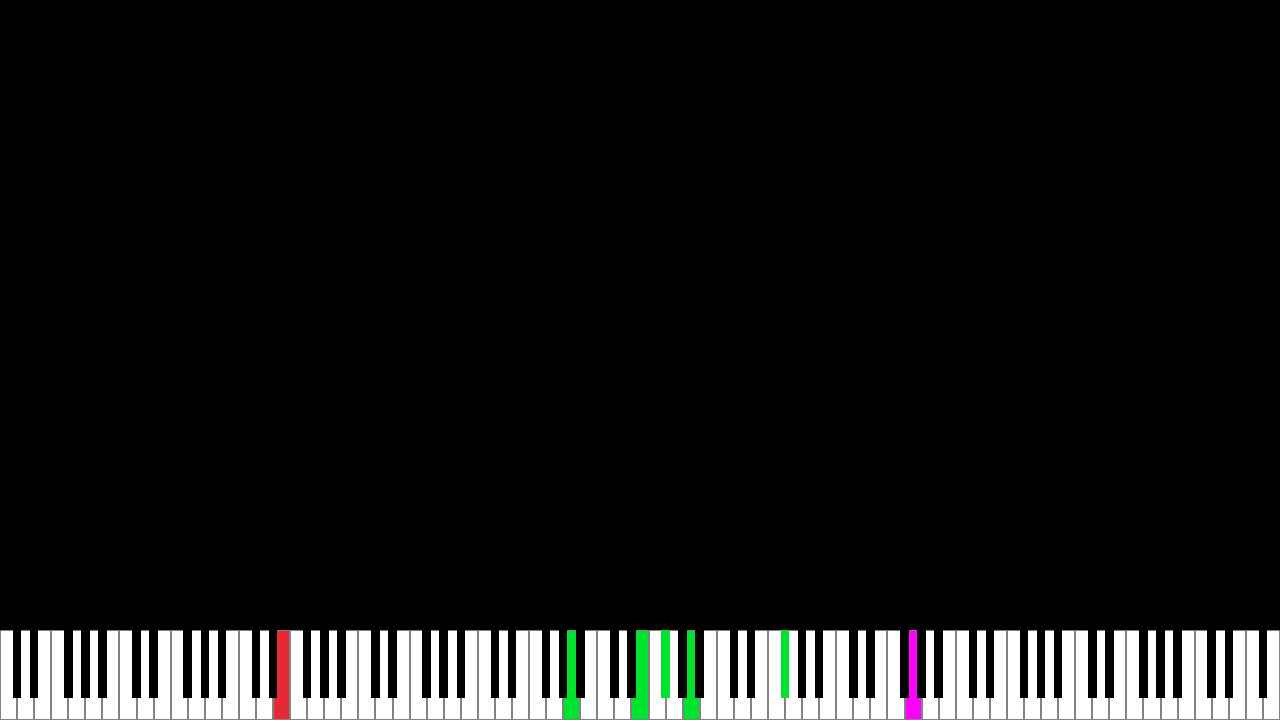
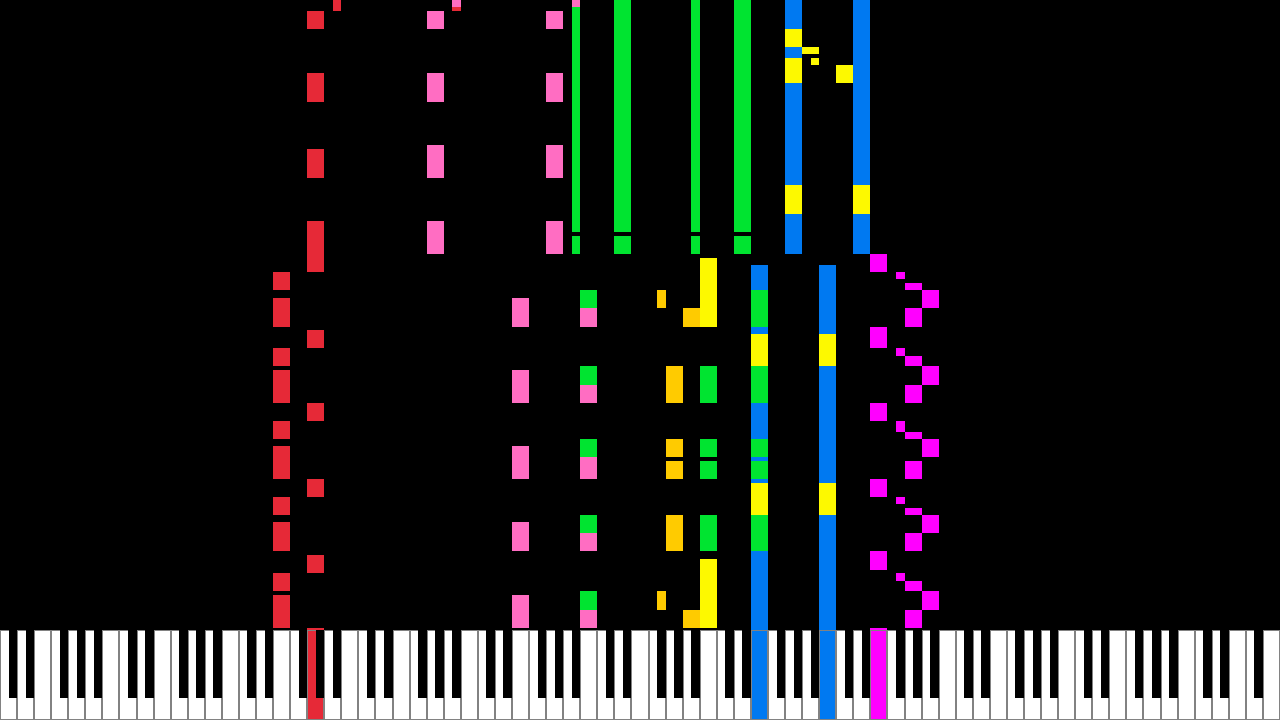
Animate keystrokes (Like in Synthesia)

diff --git a/src/main.rs b/src/main.rs
@@ -523,52 +523,67 @@ const NOTE_FREQUENCIES: [f64;128] = [8.175798915643682,
 use raylib::prelude::*;
 use raylib::core::logging::set_trace_log;
 
+const WHITE_KEY_COUNT: usize = 75;
+const KEY_COUNT: usize = 128;
 
-fn draw_keyboard(d: &mut impl RaylibDraw, bounds: Rectangle, key_map: [Option<Color>;128]) {
-    let white_key_count: usize = 75;
-    let white_key_width = bounds.width / white_key_count as f32;
+fn white_key_rect(index: usize, bounds: Rectangle) -> Rectangle {
+    let key_width = bounds.width / WHITE_KEY_COUNT as f32;
+    Rectangle::new(bounds.x + key_width * index as f32, bounds.y, key_width, bounds.height)
+}
+
+fn black_key_rect(left_white_index: usize, bounds: Rectangle, black_key_width: f32, black_key_height: f32) -> Rectangle {
+    let white_rect = white_key_rect(left_white_index, bounds);
+    Rectangle::new(white_rect.x + white_rect.width - black_key_width, white_rect.y, black_key_width, black_key_height)
+}
+
+fn is_black_key(key: u8) -> bool {
+    match key%12 {
+        1 | 3 | 6 | 8 | 10 => true,
+        _ => false
+    }
+}
+
+fn key_rect(key: u8, bounds: Rectangle) -> Rectangle {
+    let white_key_width = bounds.width / WHITE_KEY_COUNT as f32;
     let black_key_width = white_key_width / 2.0;
     let black_key_height = bounds.height * 0.75;
-    let key_rect = |i|
-        Rectangle::new(bounds.x + white_key_width * i as f32, bounds.y, white_key_width, bounds.height);
-    
-    let get_key_id = |i| {
-        let white_key = i % 7;
-        let mut key_id = (i / 7) * 12;
-        key_id += white_key;
-        if white_key > 0 { key_id += 1 }
-        if white_key > 1 { key_id += 1 }
-        if white_key > 3 { key_id += 1 }
-        if white_key > 4 { key_id += 1 }
-        if white_key > 5 { key_id += 1 }
-        key_id
+
+    let get_white_key_index = |white_key|  {
+        let note = white_key % 12;
+        let mut key_id = white_key / 12 * 7;
+        key_id += note;
+        if note > 1 { key_id -= 1 }
+        if note > 3 { key_id -= 1 }
+        if note > 6 { key_id -= 1 }
+        if note > 8 { key_id -= 1 }
+        if note > 10 { key_id -= 1 }
+        key_id as usize
     };
 
-    for i in 0..white_key_count {
-        let key_id = get_key_id(i);
-        let draw_color = if let Some(color) = key_map[key_id] { color } else { Color::WHITE };
+    if is_black_key(key) {
+        let white_key = key - 1;
+        black_key_rect(get_white_key_index(white_key), bounds, black_key_width, black_key_height)
+    } else {
+        white_key_rect(get_white_key_index(key), bounds)
+    }
+}
 
-        let key_rect = key_rect(i);
-        d.draw_rectangle_rec(key_rect, draw_color);
-        d.draw_rectangle_lines_ex(key_rect, 1, Color::GRAY);
+fn draw_keyboard(d: &mut impl RaylibDraw, bounds: Rectangle, key_map: [Option<Color>;128]) {
+    // Draw white keys
+    for i in 0..KEY_COUNT {
+        if !is_black_key(i as u8) {
+            let draw_color = if let Some(color) = key_map[i] { color } else { Color::WHITE };
+            let rect = key_rect(i as u8, bounds);
+            d.draw_rectangle_rec(rect, draw_color);
+            d.draw_rectangle_lines_ex(rect, 1, Color::GRAY);
+        }
     }
 
-    for i in 0..white_key_count {
-        let key_id = get_key_id(i)+1;
-
-        let white_key = i % 7;
-        let key_rect = key_rect(i);
-        if white_key != 2 && white_key != 6 && i != white_key_count-1 {
-            
-            let black_key_bounds =
-                Rectangle::new(
-                    key_rect.x + key_rect.width - black_key_width * 0.5,
-                    bounds.y,
-                    black_key_width,
-                    black_key_height
-                );
-            let draw_color = if let Some(color) = key_map[key_id] { color } else { Color::BLACK };
-            d.draw_rectangle_rec(black_key_bounds, draw_color);
+    // Draw black keys
+    for i in 0..KEY_COUNT {
+        if is_black_key(i as u8) {
+            let draw_color = if let Some(color) = key_map[i] { color } else { Color::BLACK };
+            d.draw_rectangle_rec(key_rect(i as u8, bounds), draw_color);
         }
     }
 }
@@ -841,6 +856,10 @@ const COLORS: [Color; 8] = [
     Color::SKYBLUE
 ];
 
+fn get_color(channel: u8) -> Color {
+    COLORS[channel as usize % COLORS.len()]
+}
+
 #[derive(Debug,Clone,Copy)]
 struct TrackPlayer {
     event_pointer: usize
@@ -858,6 +877,71 @@ use std::env;
 enum State {
     RENDERING,
     VISUALIZING
+}
+
+struct NoteVisual {
+    channel: u8,
+    key: u8,
+    track: usize,
+    start_time: f64,
+    stop_time: Option<f64>
+}
+
+const TIME_SCALE: f64 = 100.0; // PIXEL / SECOND
+
+impl NoteVisual {
+    fn new(channel: u8, key: u8, track: usize, start_time: f64) -> Self { 
+        Self { channel, key, track, stop_time: None, start_time }
+    }
+
+    fn get_rect(&self, curr_time: f64, keyboard_bounds: Rectangle) -> Rectangle {
+        let keyboard_key_rect = key_rect(self.key, keyboard_bounds);
+        let start_y = match self.stop_time {
+            Some(t) => (curr_time - t) * TIME_SCALE,
+            None => 0.0
+        };
+        let end_y = (curr_time - self.start_time) * TIME_SCALE;
+        Rectangle::new(keyboard_key_rect.x, start_y as f32, keyboard_key_rect.width, (end_y - start_y) as f32)
+    }
+
+    fn render(&self, curr_time: f64, d: &mut impl RaylibDraw, keyboard_bounds: Rectangle) {
+        let color = get_color(self.channel);
+        d.draw_rectangle_rec(self.get_rect(curr_time, keyboard_bounds), color);
+    }
+}
+
+fn update_track_players(track_players: &mut Vec<TrackPlayer>, normed_tracks: &Vec<NormalizedTrack>, elapsed_time: f64, note_visuals: &mut Vec<NoteVisual>) {
+    'outer: for (i, player) in track_players.iter_mut().enumerate() {
+                    
+        if player.event_pointer >= normed_tracks[i].events.len() {
+            continue 'outer;
+        }
+
+        while elapsed_time > normed_tracks[i].events[player.event_pointer].0 {
+            match normed_tracks[i].events[player.event_pointer].1 {
+                NormalizedEvent::KeyOff { key, channel, .. } => {
+                    //key_map[key as usize] = None;
+                    for nv in note_visuals.iter_mut() {
+                        if nv.channel == channel && nv.key == key && nv.stop_time.is_none() {
+                            nv.stop_time = Some(elapsed_time);
+                            break;
+                        }
+                    }
+                },
+                NormalizedEvent::KeyOn { key, channel, .. } => {
+                    //let color = COLORS[channel as usize % COLORS.len()];
+                    //key_map[key as usize] = Some(color);
+                    note_visuals.push(NoteVisual::new(channel, key, i, elapsed_time));
+                },
+            }
+            player.event_pointer += 1;
+            if player.event_pointer >= normed_tracks[i].events.len() {
+                continue 'outer;
+            }
+        
+        }
+        
+    }
 }
 
 fn main() {
@@ -907,40 +991,37 @@ fn main() {
     let mut track_players = vec![TrackPlayer::new(); simult_tracks as usize];
     
     let mut key_map  = [None; 128];
-    
+    let mut note_visuals: Vec<NoteVisual> = Vec::new();
+    let key_board_bounds = Rectangle::new(0.0, WINDOW_HEIGHT as f32 * 7.0/8.0, WINDOW_WIDTH as f32, WINDOW_HEIGHT as f32 / 8.0);
+    let time_offset: f64 = (WINDOW_HEIGHT as f64 - key_board_bounds.height as f64) / TIME_SCALE;
+    println!("TIME OFFSET: {}", time_offset);
     while !rl.window_should_close() {
         match state {
             State::VISUALIZING => {
+                
                 let pi = progress_info.lock().unwrap();
                 let music = music.as_mut().unwrap();
                 let normed_tracks = pi.result.as_ref().unwrap();
+                
 
                 rl_audio.update_music_stream(music);
-                let elapsed_time = rl_audio.get_music_time_played(music) as f64;
-                'outer: for (i, player) in track_players.iter_mut().enumerate() {
-                    
-                    if player.event_pointer >= normed_tracks[i].events.len() {
-                        continue 'outer;
-                    }
-
-                    while elapsed_time > normed_tracks[i].events[player.event_pointer].0 {
-                        match normed_tracks[i].events[player.event_pointer].1 {
-                            NormalizedEvent::KeyOff { key, .. } => {
-                                key_map[key as usize] = None;
-                            },
-                            NormalizedEvent::KeyOn { key, channel, .. } => {
-                                key_map[key as usize] = Some(COLORS[channel as usize % COLORS.len()]);
-                            },
-                        }
-                        player.event_pointer += 1;
-                        if player.event_pointer >= normed_tracks[i].events.len() {
-                            continue 'outer;
-                        }
-                    
-                    }
-                    
-                }
+                let elapsed_time = rl_audio.get_music_time_played(music) as f64 + time_offset;
                 
+                update_track_players(&mut track_players, &normed_tracks, elapsed_time, &mut note_visuals);
+                
+                let initial_note_visual_count = note_visuals.len();
+                for i in 0..initial_note_visual_count {
+                    let index = initial_note_visual_count-(i+1);
+                    let nv = &note_visuals[index];
+                    let nv_rect = nv.get_rect(elapsed_time, key_board_bounds);
+                    if nv_rect.check_collision_recs(&key_rect(nv.key, key_board_bounds)) {
+                        key_map[nv.key as usize] = Some(get_color(nv.channel));
+                    }
+                    if nv_rect.y > key_board_bounds.y {
+                        key_map[nv.key as usize] = None;
+                        note_visuals.remove(index);
+                    }
+                }
 
                 if rl.is_key_pressed(KeyboardKey::KEY_B) {
                     rl.take_screenshot(&thread, "screenshot.png");
@@ -949,8 +1030,11 @@ fn main() {
                 let mut d = rl.begin_drawing(&thread);
                 d.clear_background(Color::BLACK);
                 
-                let key_board_bounds = Rectangle::new(0.0, WINDOW_HEIGHT as f32 * 7.0/8.0, WINDOW_WIDTH as f32, WINDOW_HEIGHT as f32 / 8.0);
+                for key in note_visuals.iter() {
+                    key.render(elapsed_time, &mut d, key_board_bounds)
+                }
                 draw_keyboard(&mut d, key_board_bounds, key_map);
+
             },
             State::RENDERING => {
                 {
@@ -961,7 +1045,7 @@ fn main() {
                         return;
                     }
 
-                    if let Some(_) = &pi.result {
+                    if let Some(normed_tracks) = &pi.result {
                         state = State::VISUALIZING;
                         music = Some({
                             match Music::load_music_stream(&thread, &wav_file_path) {
@@ -973,6 +1057,10 @@ fn main() {
                             }
                         });
                         rl_audio.play_music_stream(&mut music.as_mut().unwrap());
+                        let frames = (time_offset * FPS as f64) as usize;
+                        for frame in 0..frames {
+                            update_track_players(&mut track_players, normed_tracks, frame as f64 / FPS as f64, &mut note_visuals);
+                        }
                     }
                 }
 

diff --git a/todo.md b/todo.md
@@ -5,17 +5,20 @@
 - [ ] Let user select waveform for instruments
 - [ ] More waveforms
 - [ ] 'Smoother' sounds
+- [ ] Handle more controller messages (e.g. pitch wheel)
 
 ## Midi Parser
 - [ ] Handle more meta events
 - [x] Handle missing signal bytes
 
 ## Visualization
-- [ ] Preview pressed keys
+- [x] Preview pressed keys
 - [ ] VFX
 - [ ] Properly choose colors (Maybe via user input)
 - [x] Show rendering progress before starting the visualization
+- [ ] Make the window resizable
 
 ## Other
 - [x] Better Error handling
 - [ ] Modules
+- [ ] Add option to 'prerender' music and visualization information
